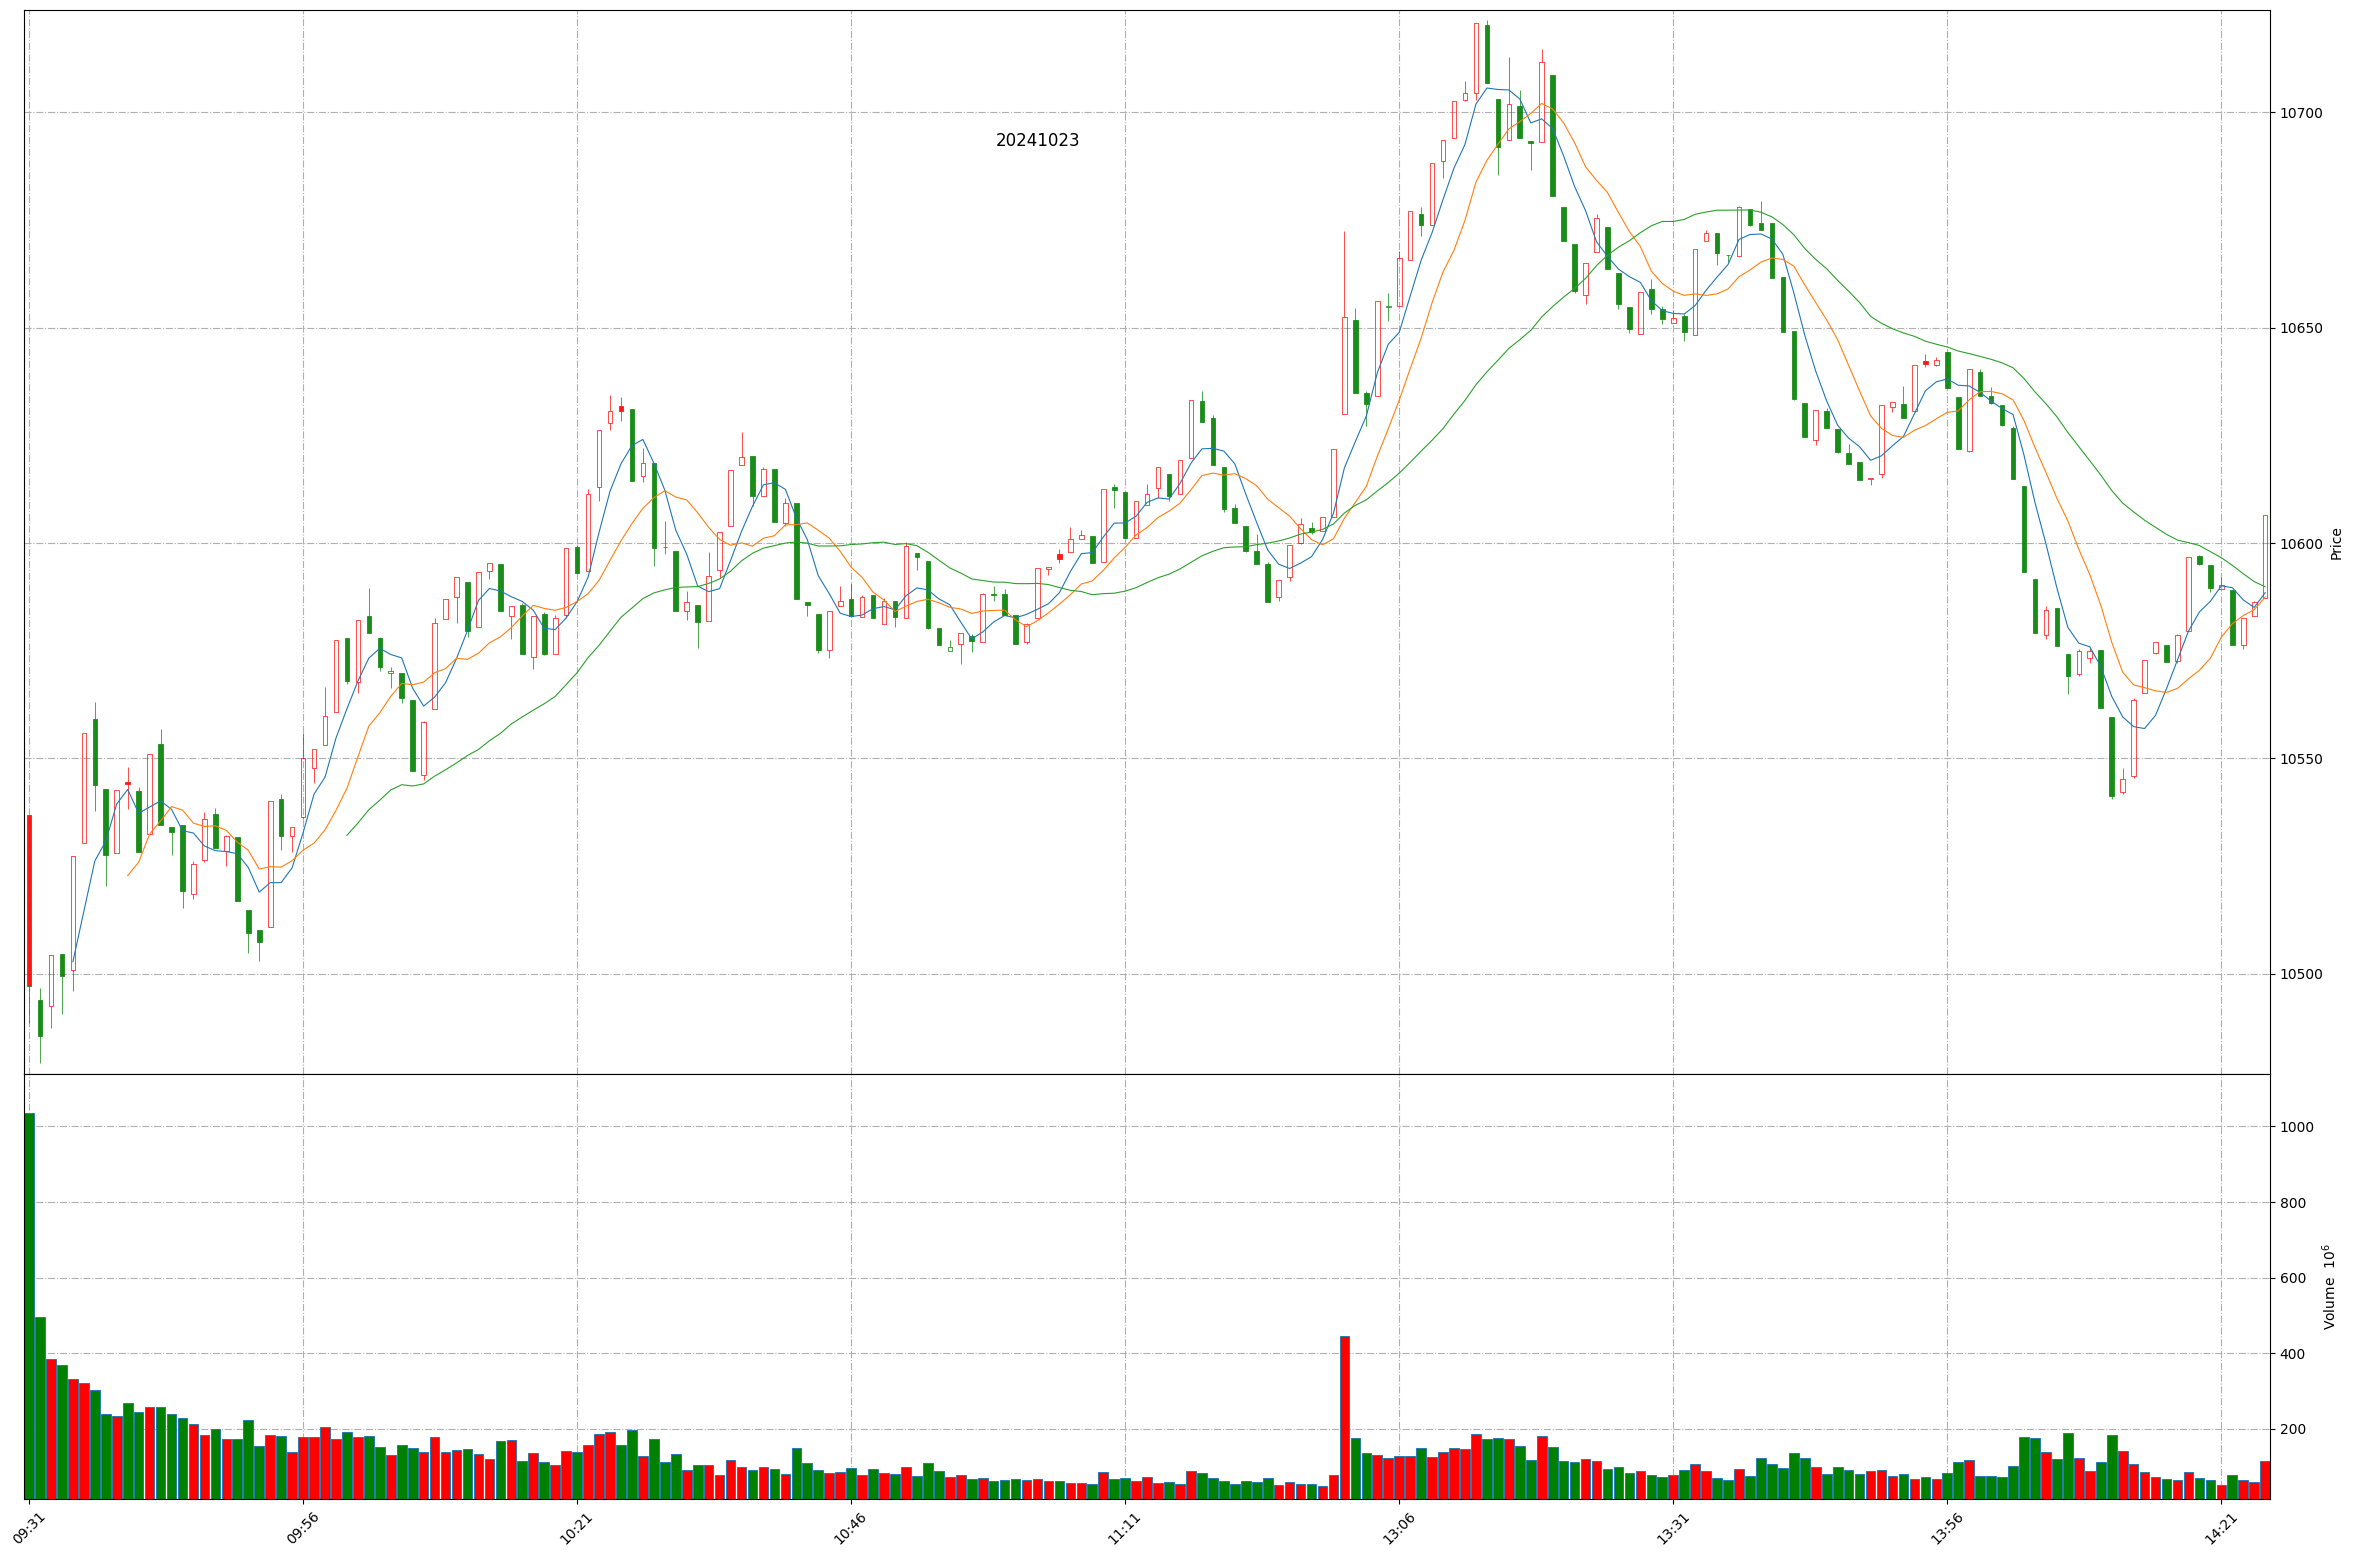
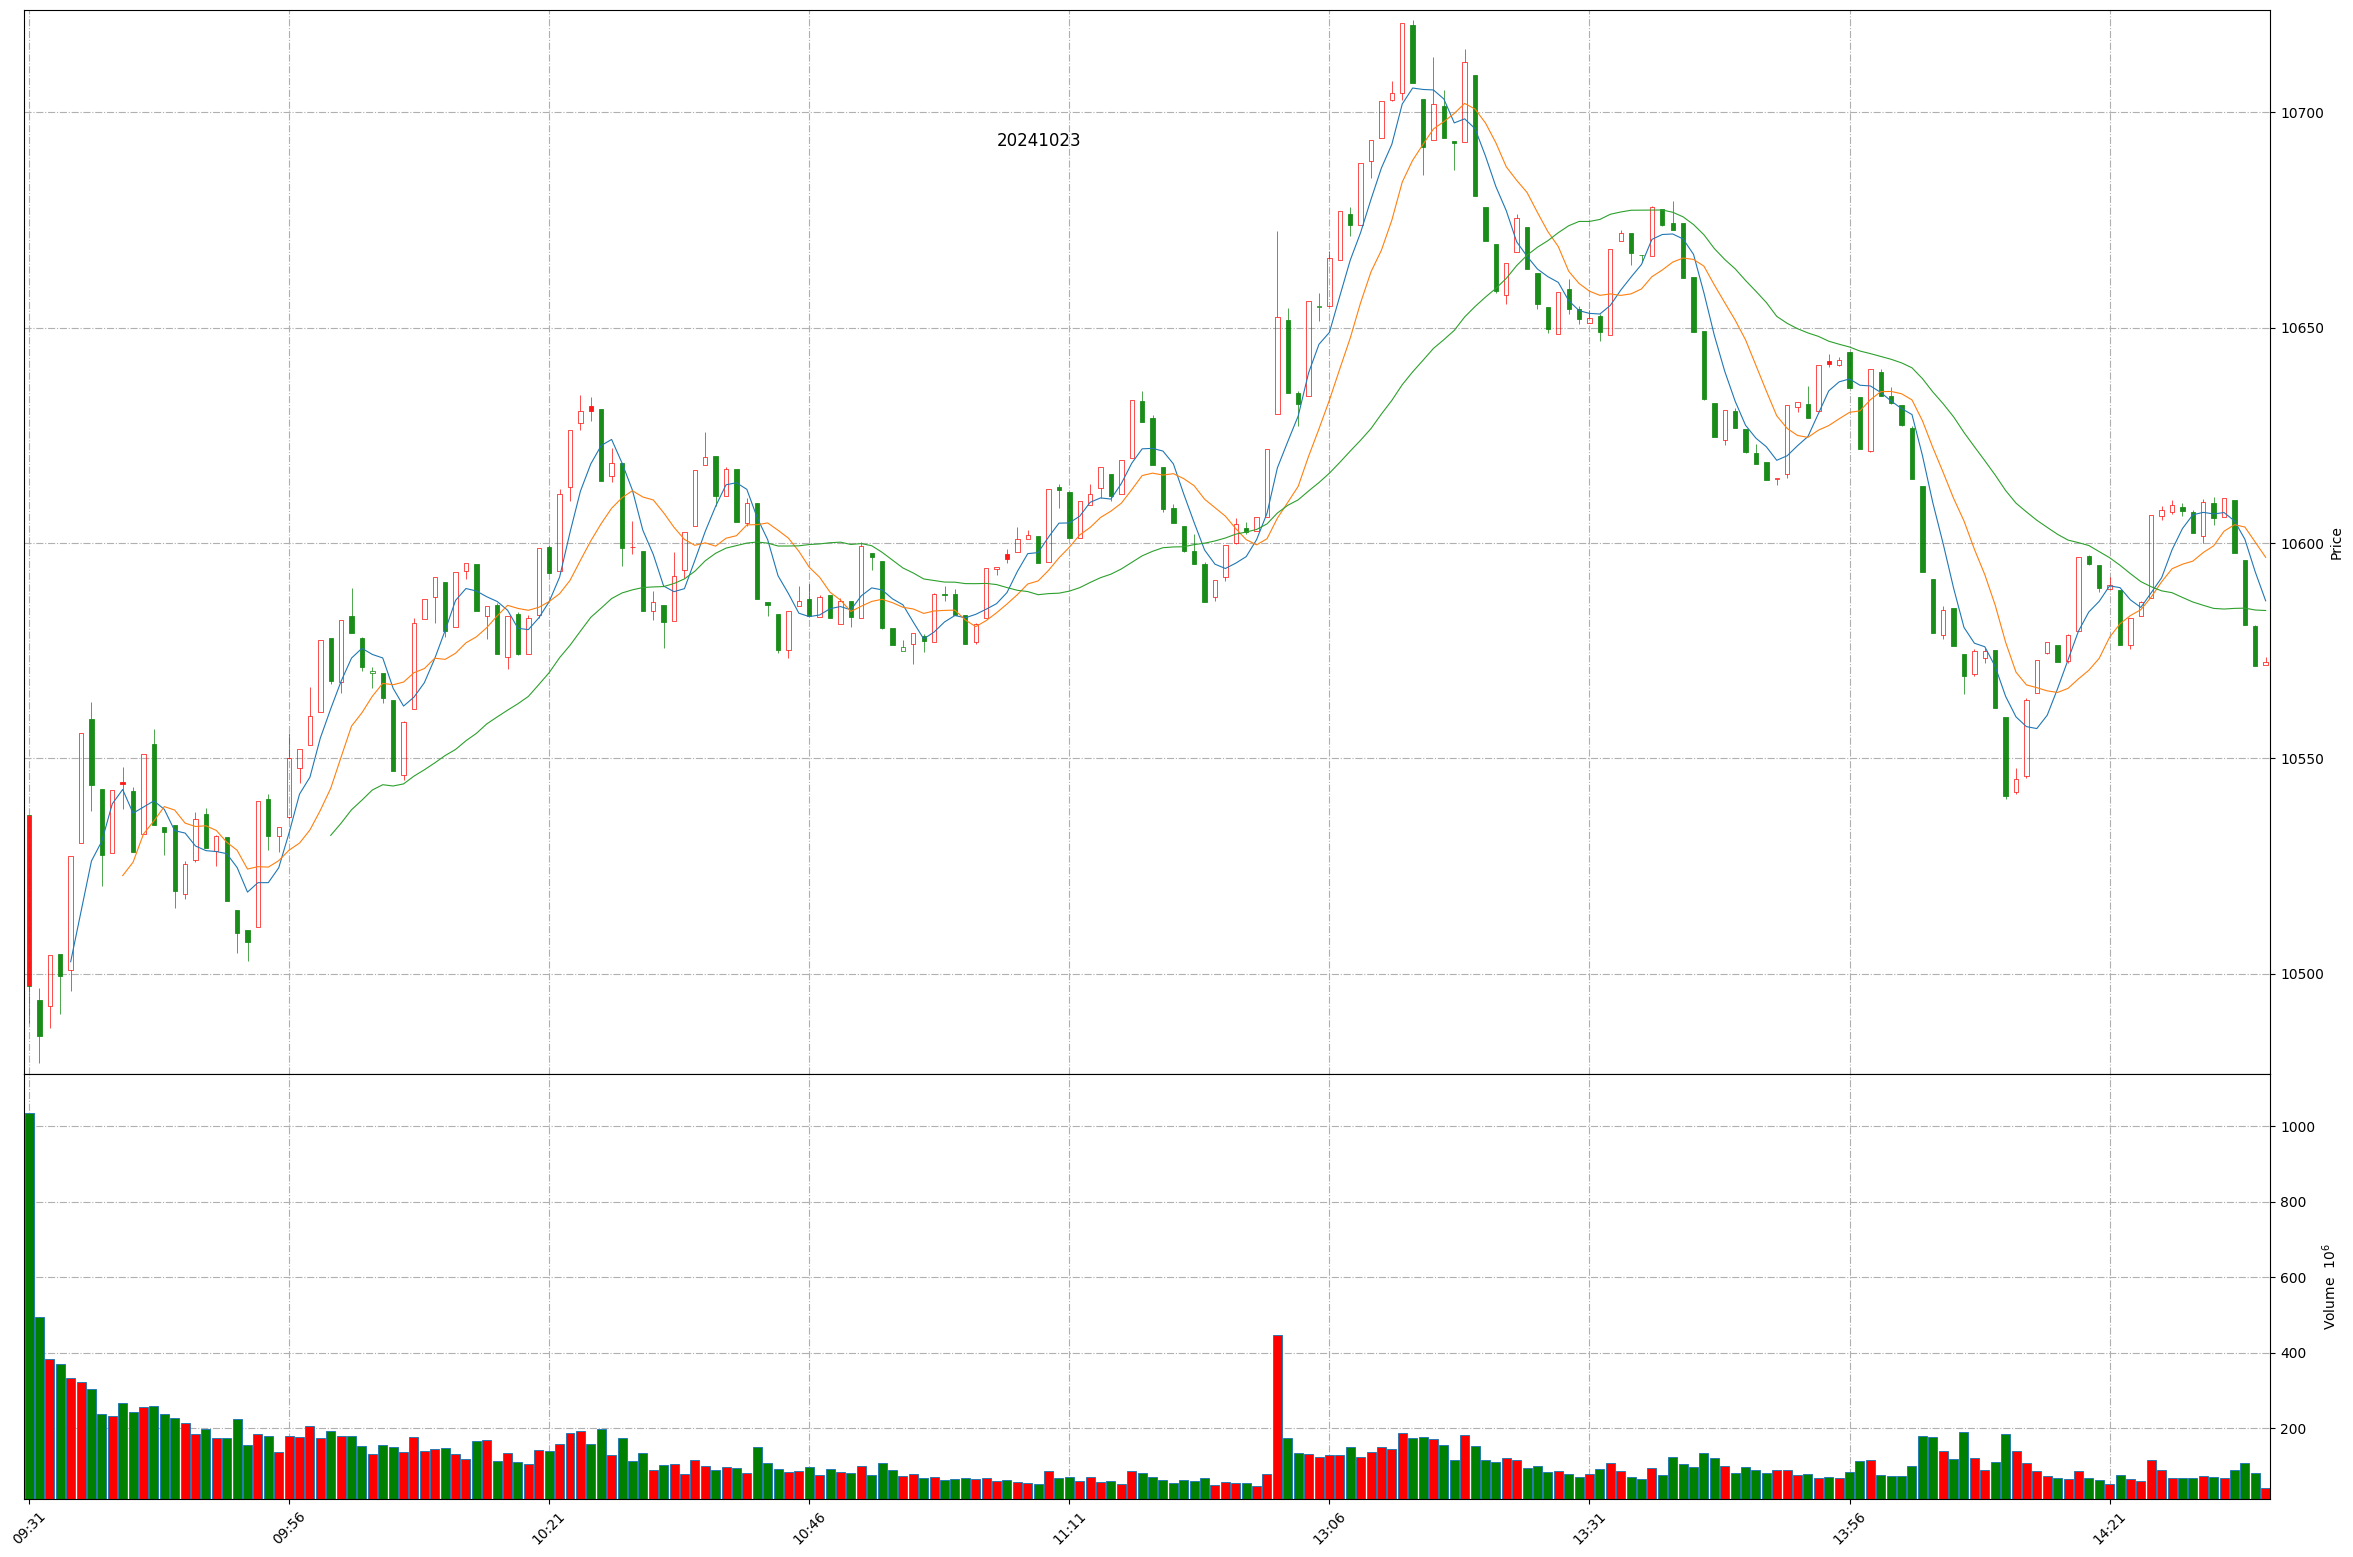
Github action update at 2024-10-23 14:35:47.

Changed region(s): [[0.031, 0.0308, 0.9928, 0.6166], [0.0, 0.8632, 0.9618, 0.9865], [0.0, 0.6166, 0.031, 0.6474]]

diff --git a/README.md b/README.md
@@ -1,11 +1,11 @@
 
 # Daily-A-share-market-quotes 每日 A 股指数（5min 更新）- 20241023
 
-### 上证指数 20241023 14:25
+### 上证指数 20241023 14:35
 ![](./fig/2024/10/20241023-sh000001.png)
 
-### 深证成指 20241023 14:25
+### 深证成指 20241023 14:35
 ![](./fig/2024/10/20241023-sz399001.png)
 
-### 北证50 20241023 14:25
+### 北证50 20241023 14:35
 ![](./fig/2024/10/20241023-bj899050.png)
